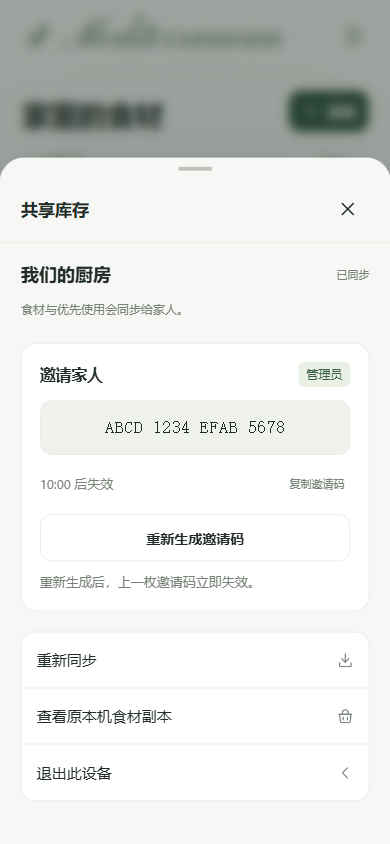
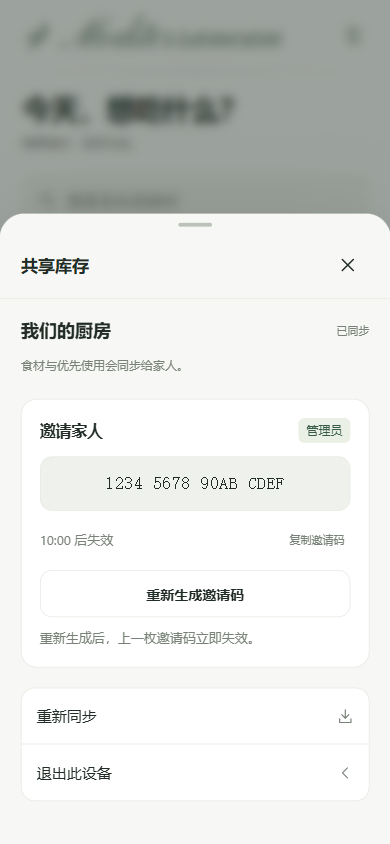
Add files via upload

diff --git a/mediterranean/cloud.js b/mediterranean/cloud.js
@@ -3,6 +3,7 @@
   'use strict';
   const M = window.Med, e = M.esc, KEY = 'mediterranean.cloud.v1', AUTH = 'mediterranean.auth.v1';
   const C = M.cloud = { kitchen: null, account: null, authorized: false, outbox: new Map(), busy: false, applying: false, message: '', epoch: 0, mode: 'invite' };
+  const account = user => ({ id: user.id, email: user.email, emailAdmin: user.is_anonymous === false && Boolean(user.email?.trim() && user.email_confirmed_at) });
   const snapshot = () => new Map(M.state.pantry.map(name => [name, M.state.priority.includes(name)]));
   C.baseline = snapshot();
   try {
@@ -17,16 +18,20 @@
       for (const op of saved.outbox || []) if (typeof op.name === 'string' && op.name.length <= 80 && typeof op.available === 'boolean' && typeof op.priority === 'boolean' && /^[a-f0-9-]{36}$/i.test(op.operationId)) C.outbox.set(op.name, op);
       // Local receipt controls immediate display only; server RLS checks every request.
       if (saved.version === 2 && saved.authorized && session?.refresh_token && session.user?.id === saved.kitchen.userId) {
-        C.account = { id: session.user.id, email: session.user.email }; C.authorized = true;
+        C.account = account(session.user); C.authorized = true;
       }
     }
   } catch { /* Preserve personal data even when session restoration fails. */ }
   const remember = () => localStorage.setItem(KEY, JSON.stringify({ version: 2, authorized: C.authorized, kitchen: C.kitchen, outbox: [...C.outbox.values()] }));
   const operation = (name, available, priority) => ({ name, available, priority: available && priority, operationId: crypto.randomUUID() });
   C.canEnter = () => C.authorized && Boolean(C.kitchen && C.account);
+  // This controls visibility only; all permissions are enforced by the database.
+  C.isAdmin = () => C.canEnter() && C.account.emailAdmin;
   document.body.classList.toggle('access-locked', !C.canEnter());
   C.status = () => !navigator.onLine ? (C.outbox.size ? `离线 · 待同步 ${C.outbox.size} 项` : '离线可用') : C.message ? '连接待恢复' : C.busy ? '正在同步' : C.outbox.size ? `待同步 ${C.outbox.size} 项` : '已同步';
   C.paint = () => {
+    document.querySelectorAll('[data-cloud-admin]').forEach(n => { n.hidden = !C.isAdmin(); });
+    document.querySelectorAll('[data-cloud-role]').forEach(n => { n.textContent = C.isAdmin() ? '管理员' : '已授权设备'; });
     document.querySelectorAll('[data-cloud-status]').forEach(n => { n.textContent = C.status(); });
     document.querySelectorAll('[data-cloud-error]').forEach(n => { n.textContent = C.message; n.hidden = !C.message; });
     const left = Math.max(0, Math.ceil(((C.invite?.deadline || 0) - Date.now()) / 1000));
@@ -42,7 +47,8 @@
     if (/Email not confirmed|email_not_confirmed/i.test(text)) return '管理员账号尚未确认，请在控制台确认账号。';
     if (/PGRST20[25]|schema cache|does not exist|Not configured/i.test(text)) return '共享库存需要完成本次数据库升级，请联系管理员。';
     if (/Invalid invitation/i.test(text)) return '邀请码无效或已过期，请向管理员获取新码。';
-    if (/ADMIN_ONLY/i.test(text)) return '请使用管理员账号登录，家人请使用邀请码。';
+    if (/ADMIN_ONLY|42501|ACCESS_REQUIRED|PGRST116/.test(text) && C.account?.emailAdmin) return '邮箱已登录，请先在数据库执行 supabase-email-admin.sql，修正管理员权限。';
+    if (/ADMIN_ONLY/i.test(text)) return '邀请码设备不能生成邀请码，请使用邮箱密码登录。';
     if (/42501|ACCESS_REQUIRED|PGRST116/.test(text)) return '这台设备需要重新授权，请输入新的邀请码。';
     if (/ACCOUNT_CHANGED|KITCHEN_CHANGED/.test(text)) return '本机仍有原库存记录，请先导出备份后联系管理员。';
     return navigator.onLine ? '暂时无法连接，请稍后重试。' : '首次验证需要联网，请连接网络后重试。';
@@ -61,7 +67,7 @@
     const user = result.data.session?.user;
     if (!user) throw { code: 'ACCESS_REQUIRED' };
     if (C.kitchen?.userId && C.kitchen.userId !== user.id && C.outbox.size) throw { code: 'ACCOUNT_CHANGED' };
-    C.account = { id: user.id, email: user.email }; return user;
+    C.account = account(user); return user;
   };
   const getAccess = async () => {
     const result = await client().rpc('med_get_access');
@@ -162,7 +168,7 @@
   };
   C.show = () => {
     if (!C.canEnter()) { M.render(); return; }
-    const admin = C.kitchen.role === 'admin', formatted = C.invite?.code.match(/.{1,4}/g)?.join(' ');
+    const admin = C.isAdmin(), formatted = C.invite?.code.match(/.{1,4}/g)?.join(' ');
     M.sheet('共享库存', `<div class="family-heading"><strong>我们的厨房</strong><span data-cloud-status>${e(C.status())}</span></div><p class="panel-subtitle">食材与优先使用会同步给家人。</p>${admin ? `<section class="invite-panel"><div class="section-heading"><h2>邀请家人</h2><span class="quiet-tag">管理员</span></div>${formatted ? `<input class="family-code" id="family-invite" readonly value="${e(formatted)}" aria-label="本次邀请码"><div class="invite-meta"><span data-invite-remaining></span><button class="text-link" data-action="cloud-copy">复制邀请码</button></div>` : '<p class="small-note">生成后 10 分钟有效，已验证设备持续可用。</p>'}<button class="secondary-button block-button" data-action="cloud-invite">${formatted ? '重新生成邀请码' : '生成邀请码'}</button>${formatted ? '<p class="small-note">重新生成后，上一枚邀请码立即失效。</p>' : ''}</section>` : '<p class="small-note">此设备已授权，下次打开会直接进入。</p>'}<div class="settings-group family-manage"><button class="settings-row" data-action="cloud-sync"><span>重新同步</span>${M.icon('download')}</button>${M.state.localPantry ? '<button class="settings-row" data-action="cloud-local-backup"><span>查看原本机食材副本</span>' + M.icon('pantry') + '</button>' : ''}<button class="settings-row" data-action="cloud-logout"><span>退出此设备</span>${M.icon('back')}</button></div><p class="family-error" role="status" data-cloud-error ${C.message ? '' : 'hidden'}>${e(C.message)}</p>`, 'cloud'); C.paint();
   };
   const perform = async fn => {
@@ -222,10 +228,10 @@
   C.showLocalBackup = () => {
     const b = M.state.localPantry;
     if (!b) return;
-    M.sheet('原本机食材副本', `<p class="panel-subtitle">${b.pantry.length} 种食材，原记录完整保留。</p><div class="pantry-chips">${b.pantry.map(n => `<span class="ingredient-chip">${e(M.ingredientLabel(n))}</span>`).join('')}</div><button class="secondary-button block-button" data-action="export">导出备份</button>${C.kitchen?.role === 'admin' && b.pantry.length ? '<button class="primary-button block-button" data-action="cloud-merge-local" style="margin-top:12px">将副本食材补充到共享库存</button>' : ''}`);
+    M.sheet('原本机食材副本', `<p class="panel-subtitle">${b.pantry.length} 种食材，原记录完整保留。</p><div class="pantry-chips">${b.pantry.map(n => `<span class="ingredient-chip">${e(M.ingredientLabel(n))}</span>`).join('')}</div><button class="secondary-button block-button" data-action="export">导出备份</button>${C.isAdmin() && b.pantry.length ? '<button class="primary-button block-button" data-action="cloud-merge-local" style="margin-top:12px">将副本食材补充到共享库存</button>' : ''}`);
   };
   C.mergeLocal = () => {
-    if (!C.canEnter() || C.kitchen.role !== 'admin' || !M.state.localPantry) return;
+    if (!C.isAdmin() || !M.state.localPantry) return;
     M.state.pantry = M.uniqueIngredients([...M.state.pantry, ...M.state.localPantry.pantry]);
     M.state.priority = M.uniqueIngredients([...M.state.priority, ...M.state.localPantry.priority]);
     M.save(); M.closeSheet(); M.refresh(); M.toast('已补充，原副本仍保留');
@@ -236,7 +242,7 @@
     try { await authenticated(); const access = await getAccess(); if (C.epoch !== epoch || C.actionBusy) return; accept(access); M.render(); await C.sync(); }
     catch (error) {
       if (C.epoch !== epoch || C.actionBusy) return;
-      if (/ACCESS_REQUIRED|42501|PGRST116|refresh_token_not_found/.test(String(error?.code))) { C.message = ''; lock(); }
+      if (/ACCESS_REQUIRED|42501|PGRST116|refresh_token_not_found/.test(String(error?.code))) { C.message = C.account?.emailAdmin ? friendly(error) : ''; lock(); }
       else { C.message = friendly(error); C.paint(); }
     }
   };

diff --git a/mediterranean/app.js b/mediterranean/app.js
@@ -20,7 +20,9 @@
   };
   M.settings = () => {
     const status = M.ui.offline;
-    M.sheet('设置', `<div class="settings-label">显示</div><div class="settings-group"><div class="settings-row"><span>外观</span><select id="theme-select" aria-label="选择外观">${[['system', '跟随系统'], ['light', '浅色'], ['dark', '深色']].map(([id, label]) => `<option value="${id}" ${M.state.theme === id ? 'selected' : ''}>${label}</option>`).join('')}</select></div></div><div class="settings-label">共享</div><div class="settings-group"><button class="settings-row" data-action="cloud-settings"><span>共享库存</span><small data-cloud-status>${e(M.cloud.status())}</small>${M.icon('chevron')}</button></div><div class="settings-label">个人数据</div><div class="settings-group"><button class="settings-row" data-action="export"><span>导出备份</span>${M.icon('download')}</button><button class="settings-row" data-action="import"><span>导入备份</span>${M.icon('upload')}</button></div><div class="settings-label">离线与安装</div><div class="settings-group"><div class="settings-row"><span>${status.ready ? '离线就绪' : status.images ? `已缓存 ${status.images} / ${M.recipes.length} 张配图` : '正在准备离线内容'}</span>${M.icon(status.ready ? 'check' : 'download')}</div><button class="settings-row" data-action="install-help"><span>添加到 iPhone 主屏幕</span>${M.icon('chevron')}</button></div><p class="small-note">库存自动同步，个人记录建议定期备份。</p><div class="settings-about">Mediterranean · 地中海<br>${M.recipes.length} 道菜谱</div><input type="file" id="backup-input" accept="application/json,.json" hidden>`, 'settings');
+    M.sheet('设置', `<div class="settings-label">显示</div><div class="settings-group"><div class="settings-row"><span>外观</span><select id="theme-select" aria-label="选择外观">${[['system', '跟随系统'], ['light', '浅色'], ['dark', '深色']].map(([id, label]) => `<option value="${id}" ${M.state.theme === id ? 'selected' : ''}>${label}</option>`).join('')}</select></div></div>
+      <div class="settings-label">共享</div><div class="settings-group"><div class="settings-row"><span>当前身份</span><small data-cloud-role>${M.cloud.isAdmin() ? '管理员' : '已授权设备'}</small></div><button class="settings-row" data-action="cloud-invite" data-cloud-admin ${M.cloud.isAdmin() ? '' : 'hidden'}><span>生成邀请码</span><small>10 分钟有效</small>${M.icon('chevron')}</button><button class="settings-row" data-action="cloud-settings"><span>共享库存</span><small data-cloud-status>${e(M.cloud.status())}</small>${M.icon('chevron')}</button></div>
+      <p class="family-error" role="status" data-cloud-error ${M.cloud.message ? '' : 'hidden'}>${e(M.cloud.message)}</p><div class="settings-label">个人数据</div><div class="settings-group"><button class="settings-row" data-action="export"><span>导出备份</span>${M.icon('download')}</button><button class="settings-row" data-action="import"><span>导入备份</span>${M.icon('upload')}</button></div><div class="settings-label">离线与安装</div><div class="settings-group"><div class="settings-row"><span>${status.ready ? '离线就绪' : status.images ? `已缓存 ${status.images} / ${M.recipes.length} 张配图` : '正在准备离线内容'}</span>${M.icon(status.ready ? 'check' : 'download')}</div><button class="settings-row" data-action="install-help"><span>添加到 iPhone 主屏幕</span>${M.icon('chevron')}</button></div><p class="small-note">库存自动同步，个人记录建议定期备份。</p><div class="settings-about">Mediterranean · 地中海<br>${M.recipes.length} 道菜谱</div><input type="file" id="backup-input" accept="application/json,.json" hidden>`, 'settings');
     if (M.state.localPantry) document.querySelector('#modal-backdrop [data-action="export"]')?.closest('.settings-group').insertAdjacentHTML('beforeend', `<button class="settings-row" data-action="cloud-local-backup"><span>本机食材副本</span>${M.icon('pantry')}</button>`);
   };
   M.shoppingMenu = () => {

diff --git a/mediterranean/sw.js b/mediterranean/sw.js
@@ -1,6 +1,6 @@
 /* Change this version whenever any deployed file changes. */
 const PREFIX = 'mediterranean:' + self.registration.scope + ':';
-const VERSION = PREFIX + 'v2.0.1';
+const VERSION = PREFIX + 'v2.0.2';
 const CORE = ['./', './index.html', './styles.css', './recipes.js', './ingredients.js', './core.js', './views.js', './app.js', './cloud-config.js', './cloud.js', './assets/vendor/supabase-2.118.0.js', './manifest.webmanifest', './asset-manifest.json', './assets/icon.svg', './assets/brand-mark.svg', './assets/icon-192.png', './assets/icon-512.png', './assets/apple-touch-icon.png', './assets/fonts/PinyonScript-Regular.ttf'];
 self.addEventListener('install', event => event.waitUntil((async () => {
   const response = await fetch('./asset-manifest.json', { cache: 'no-store' });

diff --git a/mediterranean/README.md b/mediterranean/README.md
@@ -15,7 +15,7 @@
 - 甜椒／彩椒等同义名称合并，旧库存和优先使用标记自动归并，菜谱原始名称与用量保留。
 - 固定一套共享库存：管理员邮箱密码登录，家人使用 10 分钟有效的邀请码授权设备；没有创建或选择家庭步骤。数据库升级见 CLOUD-SETUP.md。
 - 首次验证前停留在进入页；已授权设备直接显示主界面，后台恢复认证和同步，断网保留本机记录及待同步队列。
-- 管理员在设置 → 共享库存生成邀请码；新码替换旧码，过期不影响已授权设备。
+- 邮箱密码登录即为管理员，在设置 → 生成邀请码使用；新码替换旧码，过期不影响已授权设备。已升级但缺少管理员权限时，执行 supabase-email-admin.sql。
 - 食材目录按菌菇、米饭、牛奶、酸奶等同类项归组，具体品种与生熟状态保留；搜索已有名称时不再诱导创建重复项。
 - 食材页优先展示现有库存，优先用食材置顶，常备调味可收起；添加目录按需打开。
 - 分类列表优先展示契合度高的菜，详情自动用绿色勾显示已有、暖红色显示缺少。

diff --git a/mediterranean/AGENTS.md b/mediterranean/AGENTS.md
@@ -19,6 +19,7 @@
 - 固定使用一套共享库存；管理员使用邮箱密码登录，家人使用 10 分钟有效的邀请码授权设备，不再创建或选择家庭。邀请码设备使用 Supabase 匿名认证会话，必须经服务端邀请码验证后才获得库存权限。
 - 已授权设备依据保存的认证会话与授权记录直接渲染主界面，后台刷新身份与同步；网络故障不能清空数据或强制回到验证页。
 - 邀请码仅管理员可生成，以服务器时间判断过期；新码替换旧码，过期不撤销已授权设备。
+- 所有成功通过邮箱密码登录的已确认邮箱账号均为管理员，不再绑定固定管理员 UUID；邀请码匿名设备始终是普通成员。设置首页直接提供生成邀请码入口。
 - 食材同类项可在目录和库存中归组展示，分组选中不能自动宣称拥有所有品种；保留鲜干、生熟及菜谱用量的区别。
 - 云同步只包含食材库存与优先使用；收藏、采购和烹饪进度保留在各自设备。
 - 加入家庭前必须保留可导出、可恢复的本机食材副本；禁止通过先清空本机库存来切换家庭。

diff --git a/mediterranean/CLOUD-SETUP.md b/mediterranean/CLOUD-SETUP.md
@@ -1,4 +1,12 @@
-# 现有项目升级：只做这三步
+# 已升级过，但邮箱登录没有邀请码
+
+在地中海 Supabase 的 SQL Editor 中执行一次 [supabase-email-admin.sql](supabase-email-admin.sql)，再上传新版网站文件即可。库存与已授权设备保留，无需重新创建家庭。
+
+邮箱密码登录即为管理员，在「设置 → 生成邀请码」使用。邀请码设备是普通成员。
+
+---
+
+# 尚未升级：只做这三步
 
 打开地中海的 Supabase 项目：ycgiooxdlabmyzbmpdfk。
 
@@ -23,7 +31,7 @@
 
 将新版 mediterranean 文件更新到原网站，再打开应用。
 
-管理员登录 → 设置 → 共享库存 → 生成邀请码，发给家人即可。
+邮箱密码登录 → 设置 → 生成邀请码，发给家人即可。
 
 邀请码 10 分钟有效；已授权设备以后直接进入主页。
 
